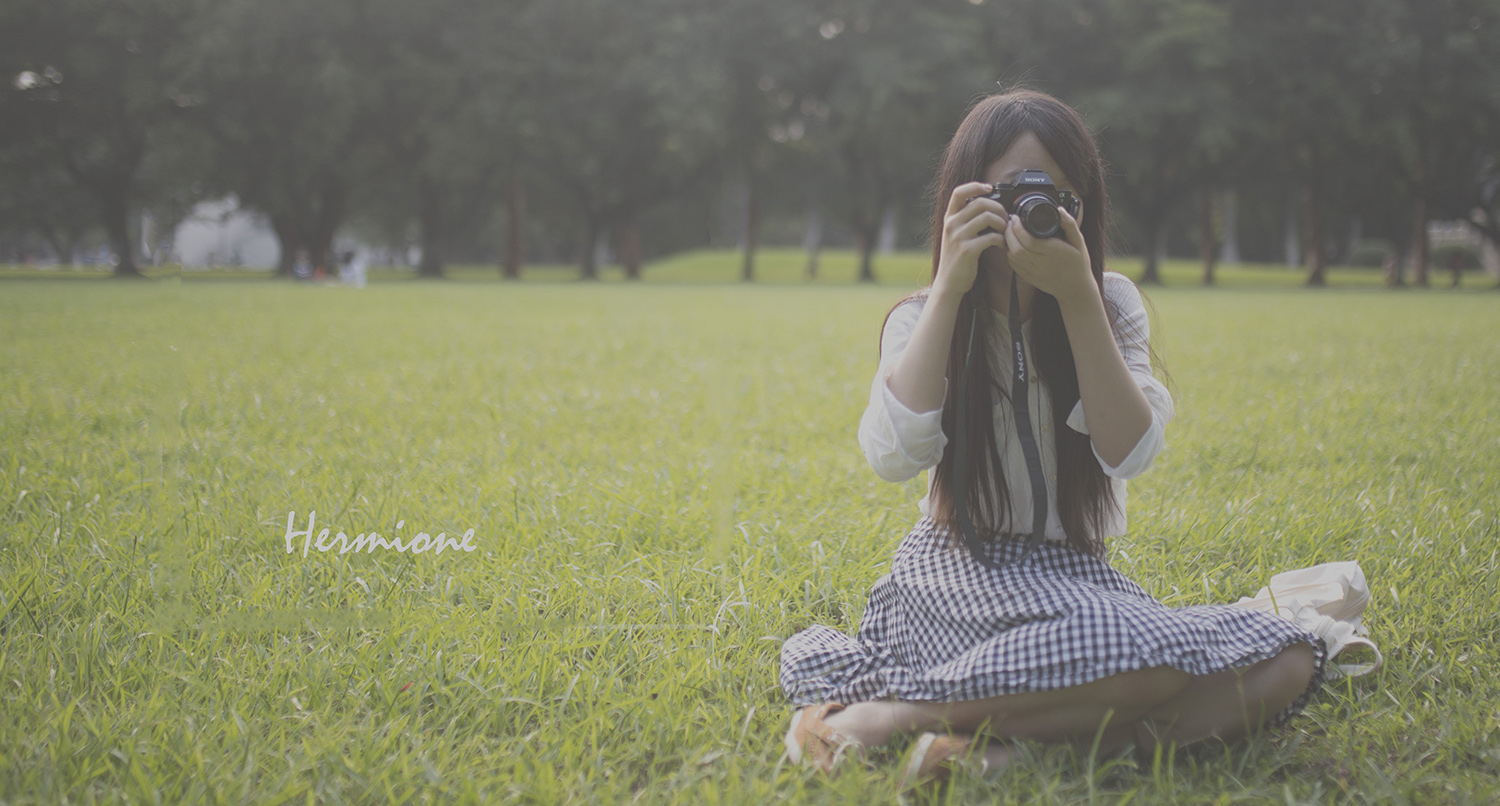
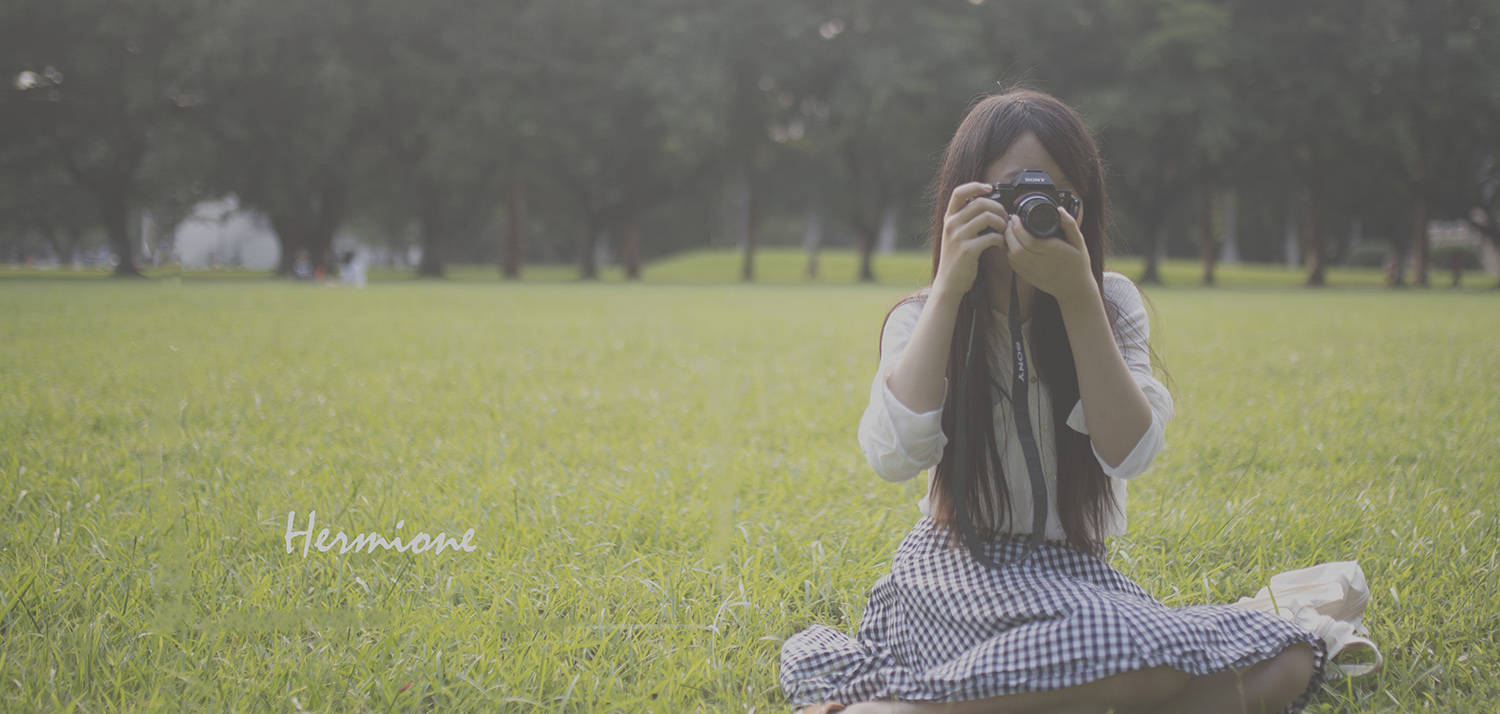
ddd

diff --git a/css/css.css b/css/css.css
@@ -1257,7 +1257,7 @@ margin-left: 4vw;
   background-size:cover;
   background-repeat:no-repeat;
   background-position: center;
-  height: 80vh;
+  height: 70vh;
   display: inline;
   padding-left: 8vw;
   padding-top: 3vw;
@@ -1303,6 +1303,7 @@ border: 0px solid yellow;
   display: flex;
   position: relative;
   margin: 8vw;
+  margin-top: 2em;
   border: 0px solid green;
 }
 #contact-img{

diff --git a/me.html b/me.html
@@ -105,7 +105,7 @@
 
 
 
- <div id="below-banner" style="padding-top: 0px;">
+ <div id="below-banner">
 
 
 
